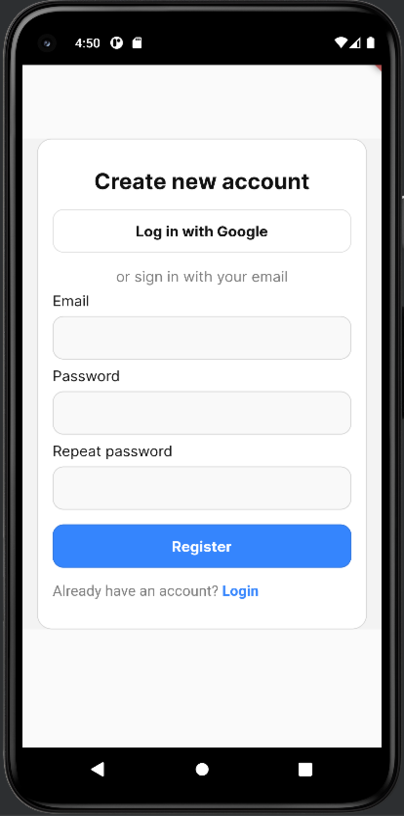
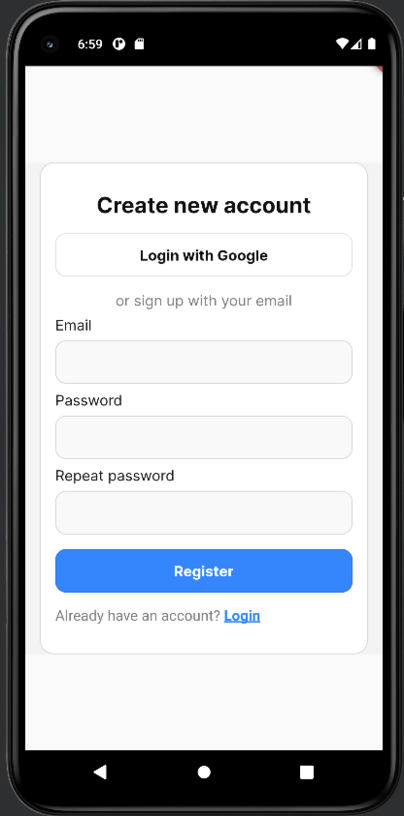
Add login page

diff --git a/frontend/lib/pages/login_register.dart b/frontend/lib/pages/login_register.dart
@@ -5,22 +5,28 @@ import 'package:give_away/components/custom_textfield.dart';
 import 'package:give_away/components/custom_button.dart';
 import 'package:flutter_secure_storage/flutter_secure_storage.dart';
 import 'package:http/http.dart' as http;
-import 'package:logger/logger.dart';
 import 'main_page.dart';
 import 'package:google_sign_in/google_sign_in.dart';
+import 'package:flutter/gestures.dart';
 
-class Register extends StatelessWidget {
-  Register({super.key});
+class LoginRegister extends StatefulWidget {
+  const LoginRegister({super.key});
 
+  @override
+  State<LoginRegister> createState() => _LoginRegisterState();
+}
+
+class _LoginRegisterState extends State<LoginRegister> {
   final httpAddress = dotenv.env['HTTP_ADDRESS'];
   final TextEditingController email = TextEditingController();
   final TextEditingController password = TextEditingController();
   final TextEditingController repeatPassword = TextEditingController();
+  bool isLogin = true;
 
   Future<void> createUser(
       String username, String password, BuildContext context) async {
     final response = await http.post(
-      Uri.parse('$httpAddress/api/auth/register'),
+      Uri.parse(isLogin ? '$httpAddress/api/auth/login' : '$httpAddress/api/auth/register'),
       headers: <String, String>{
         'Content-Type': 'application/json; charset=UTF-8',
       },
@@ -78,124 +84,181 @@ class Register extends StatelessWidget {
     );
 
     return Scaffold(
-        body: Center(
-      child: SingleChildScrollView(
-        child: Container(
-            padding: const EdgeInsets.symmetric(horizontal: 16),
-            color: Theme.of(context).colorScheme.background,
-            child: Container(
-                padding: const EdgeInsets.symmetric(
-                    horizontal: 16, vertical: 32),
-                decoration: BoxDecoration(
-                    color: Colors.white,
-                    border: Border.all(
-                      width: 1,
-                      color: Theme.of(context).colorScheme.outline,
-                    ),
-                    borderRadius: const BorderRadius.all(Radius.circular(16))),
-                child: Column(
-                    mainAxisAlignment: MainAxisAlignment.center,
-                    children: [
-                      Text(
-                        "Create new account",
-                        style: Theme.of(context).textTheme.titleLarge,
+        body: SafeArea(
+      child: Center(
+        child: SingleChildScrollView(
+          child: Container(
+              padding: const EdgeInsets.symmetric(horizontal: 16),
+              color: Theme.of(context).colorScheme.background,
+              child: Container(
+                  padding:
+                      const EdgeInsets.symmetric(horizontal: 16, vertical: 32),
+                  decoration: BoxDecoration(
+                      color: Colors.white,
+                      border: Border.all(
+                        width: 1,
+                        color: Theme.of(context).colorScheme.outline,
                       ),
-                      Column(children: [
-                        Container(
-                            margin: const EdgeInsets.symmetric(vertical: 16),
-                            child: OutlinedButton(
-                                onPressed: () {
-                                  _googleSignIn.isSignedIn().then((value) {
-                                    if (value) {
-                                      getJwt(
-                                          _googleSignIn
-                                              .currentUser?.displayName,
-                                          context);
-                                    } else {
-                                      _googleSignIn.signIn().then((value) {
+                      borderRadius:
+                          const BorderRadius.all(Radius.circular(16))),
+                  child: Column(
+                      mainAxisAlignment: MainAxisAlignment.center,
+                      children: [
+                        Text(
+                          isLogin ? 'Welcome back' : "Create new account",
+                          style: Theme.of(context).textTheme.titleLarge,
+                        ),
+                        Column(children: [
+                          Container(
+                              margin: const EdgeInsets.symmetric(vertical: 16),
+                              child: OutlinedButton(
+                                  onPressed: () {
+                                    _googleSignIn.isSignedIn().then((value) {
+                                      if (value) {
                                         getJwt(
                                             _googleSignIn
                                                 .currentUser?.displayName,
                                             context);
-                                        Navigator.pushReplacement(
-                                          context,
-                                          MaterialPageRoute(
-                                              builder: (context) =>
-                                                  const MainPage()),
-                                        );
-                                      });
-                                    }
-                                  });
-                                },
-                                style: ButtonStyle(
-                                  minimumSize: MaterialStateProperty.all(
-                                      const Size.fromHeight(48)),
-                                  shape: MaterialStateProperty.all(
-                                      RoundedRectangleBorder(
-                                    borderRadius: const BorderRadius.all(
-                                      Radius.circular(12),
-                                    ),
-                                    side: BorderSide(
-                                        color: Theme.of(context)
-                                            .colorScheme
-                                            .outline,
-                                        width: 2.0),
-                                  )),
-                                ),
-                                child: Text(
-                                  "Log in with Google",
-                                  style: TextStyle(
-                                      fontSize: 16,
-                                      fontWeight: FontWeight.bold,
-                                      color: Theme.of(context)
-                                          .colorScheme
-                                          .onBackground),
-                                ))),
-                        Text("or sign in with your email",
-                            style: TextStyle(
-                                fontSize: 16,
-                                color:
-                                    Theme.of(context).colorScheme.secondary)),
-                        CustomTextField(fieldName: "Email", controller: email),
-                        CustomTextField(
-                            fieldName: "Password", controller: password),
-                        CustomTextField(
-                            fieldName: "Repeat password",
-                            controller: repeatPassword),
-                        InkWell(
-                          child: const IgnorePointer(
-                              child: CustomButton(buttonName: "Register")),
-                          onTap: () {
-                            createUser(email.text, password.text, context);
-                          },
-                        ),
-                        Container(
-                          margin: const EdgeInsets.only(top: 16),
-                          child: Align(
-                            alignment: Alignment.centerLeft,
-                            child: RichText(
-                                text: TextSpan(
-                                    text: 'Already have an account? ',
+                                      } else {
+                                        _googleSignIn.signIn().then((value) {
+                                          getJwt(
+                                              _googleSignIn
+                                                  .currentUser?.displayName,
+                                              context);
+                                          Navigator.pushReplacement(
+                                            context,
+                                            MaterialPageRoute(
+                                                builder: (context) =>
+                                                    const MainPage()),
+                                          );
+                                        });
+                                      }
+                                    });
+                                  },
+                                  style: ButtonStyle(
+                                    minimumSize: MaterialStateProperty.all(
+                                        const Size.fromHeight(48)),
+                                    shape: MaterialStateProperty.all(
+                                        RoundedRectangleBorder(
+                                      borderRadius: const BorderRadius.all(
+                                        Radius.circular(12),
+                                      ),
+                                      side: BorderSide(
+                                          color: Theme.of(context)
+                                              .colorScheme
+                                              .outline,
+                                          width: 2),
+                                    )),
+                                  ),
+                                  child: Text(
+                                    "Login with Google",
                                     style: TextStyle(
                                         fontSize: 16,
+                                        fontWeight: FontWeight.bold,
                                         color: Theme.of(context)
                                             .colorScheme
-                                            .secondary),
-                                    children: <InlineSpan>[
-                                  TextSpan(
-                                    text: 'Login',
-                                    style: TextStyle(
+                                            .onBackground),
+                                  ))),
+                          isLogin
+                              ? Text('or login with your email',
+                                  style: TextStyle(
                                       fontSize: 16,
-                                      color:
-                                          Theme.of(context).colorScheme.primary,
-                                      fontWeight: FontWeight.w600,
-                                    ),
-                                  )
-                                ])),
+                                      color: Theme.of(context)
+                                          .colorScheme
+                                          .secondary))
+                              : Text('or sign up with your email',
+                                  style: TextStyle(
+                                      fontSize: 16,
+                                      color: Theme.of(context)
+                                          .colorScheme
+                                          .secondary)),
+                          CustomTextField(
+                              fieldName: "Email",
+                              controller: email,
+                              isPassword: false),
+                          CustomTextField(
+                              fieldName: "Password",
+                              controller: password,
+                              isPassword: true),
+                          if (!isLogin)
+                            CustomTextField(
+                                fieldName: "Repeat password",
+                                controller: repeatPassword,
+                                isPassword: true),
+                          InkWell(
+                            child: IgnorePointer(
+                                child: CustomButton(
+                                    buttonName:
+                                        isLogin ? "Login" : "Register")),
+                            onTap: () {
+                              createUser(email.text, password.text, context);
+                            },
                           ),
-                        )
-                      ]),
-                    ]))),
+                          isLogin ?
+                          Container(
+                            margin: const EdgeInsets.only(top: 16),
+                            child: Align(
+                              alignment: Alignment.centerRight,
+                              child: RichText(
+                                  text: TextSpan(
+                                      text: "Don't have an account yet? ",
+                                      style: TextStyle(
+                                          fontSize: 16,
+                                          color: Theme.of(context)
+                                              .colorScheme
+                                              .secondary),
+                                      children: <InlineSpan>[
+                                        TextSpan(
+                                          text: 'Sign up',
+                                          recognizer: TapGestureRecognizer()
+                                            ..onTap = () => setState(() {isLogin = false;}),
+                                          style: TextStyle(
+                                            fontSize: 16,
+                                            decoration: TextDecoration.underline,
+                                            decorationThickness: 2,
+                                            color: Theme.of(context)
+                                                .colorScheme
+                                                .primary,
+                                            fontWeight: FontWeight.w600,
+                                          ),
+                                        )
+                                      ])),
+                            ),
+                          ) : Container(
+                            margin: const EdgeInsets.only(top: 16),
+                            child: Align(
+                              alignment: Alignment.centerLeft,
+                              child: RichText(
+                                  text: TextSpan(
+                                      text: 'Already have an account? ',
+                                      style: TextStyle(
+                                          fontSize: 16,
+                                          color: Theme.of(context)
+                                              .colorScheme
+                                              .secondary),
+                                      children: <InlineSpan>[
+                                    TextSpan(
+                                      text: 'Login',
+                                      recognizer: TapGestureRecognizer()
+                                        ..onTap = () => setState(() {isLogin = true;}),
+                                      style: TextStyle(
+                                        fontSize: 16,
+                                        decoration: TextDecoration.underline,
+                                        decorationThickness: 2,
+                                        color: Theme.of(context)
+                                            .colorScheme
+                                            .primary,
+                                        fontWeight: FontWeight.w600,
+                                      ),
+                                    )
+                                  ])),
+                            ),
+                          )
+                        ]),
+                      ])
+              )
+          ),
+        ),
       ),
     ));
   }

diff --git a/frontend/lib/components/custom_textfield.dart b/frontend/lib/components/custom_textfield.dart
@@ -3,9 +3,13 @@ import 'package:flutter/material.dart';
 class CustomTextField extends StatelessWidget {
   final String fieldName;
   final TextEditingController controller;
+  final bool isPassword;
 
   const CustomTextField(
-      {super.key, required this.fieldName, required this.controller});
+      {super.key,
+      required this.fieldName,
+      required this.controller,
+      required this.isPassword});
 
   @override
   Widget build(BuildContext context) {
@@ -24,6 +28,7 @@ class CustomTextField extends StatelessWidget {
                 ))),
         TextField(
             controller: controller,
+            obscureText: isPassword,
             style: const TextStyle(fontSize: 16),
             decoration: InputDecoration(
               filled: true,

diff --git a/frontend/lib/pages/map/custom_map.dart b/frontend/lib/pages/map/custom_map.dart
@@ -8,6 +8,8 @@ import 'package:http/http.dart' as http;
 import 'package:flutter_dotenv/flutter_dotenv.dart';
 import 'package:logger/logger.dart';
 
+import '../login_register.dart';
+
 class CustomMap extends StatefulWidget {
   final String startingPointCityName;
   final String? destinationCityName;
@@ -63,6 +65,12 @@ class _CustomMapState extends State<CustomMap> {
 
           return LatLng(latitude, longitude);
         }
+      }
+      if (response.statusCode == 401) {
+        Navigator.pushReplacement(
+          context,
+          MaterialPageRoute(builder: (context) => LoginRegister()),
+        );
       }
       throw Exception(jsonDecode(response.body));
     }

diff --git a/frontend/lib/pages/main_page.dart b/frontend/lib/pages/main_page.dart
@@ -1,5 +1,6 @@
 import 'dart:io';
 import 'package:flutter/material.dart';
+import 'package:give_away/pages/login_register.dart';
 import 'package:http/http.dart' as http;
 import 'dart:convert';
 import '../models/Offer.dart';
@@ -48,6 +49,12 @@ class _MainPageState extends State<MainPage> {
     if (response.statusCode == 200) {
       return Offer.fromJsonArray(jsonDecode(response.body));
     } else {
+      if (response.statusCode == 401) {
+        Navigator.pushReplacement(
+          context,
+          MaterialPageRoute(builder: (context) => LoginRegister()),
+        );
+      }
       throw Exception(jsonDecode(response.body));
     }
   }

diff --git a/frontend/lib/main.dart b/frontend/lib/main.dart
@@ -40,7 +40,6 @@ void main() async {
         bodyColor: const Color(0xff0F0F0F),
       ),
     ),
-        // child: const CustomMap("Poznań", destinationCityName:"Wrocław"),
-        child: Register(),
+        child: const LoginRegister(),
       )));
 }
